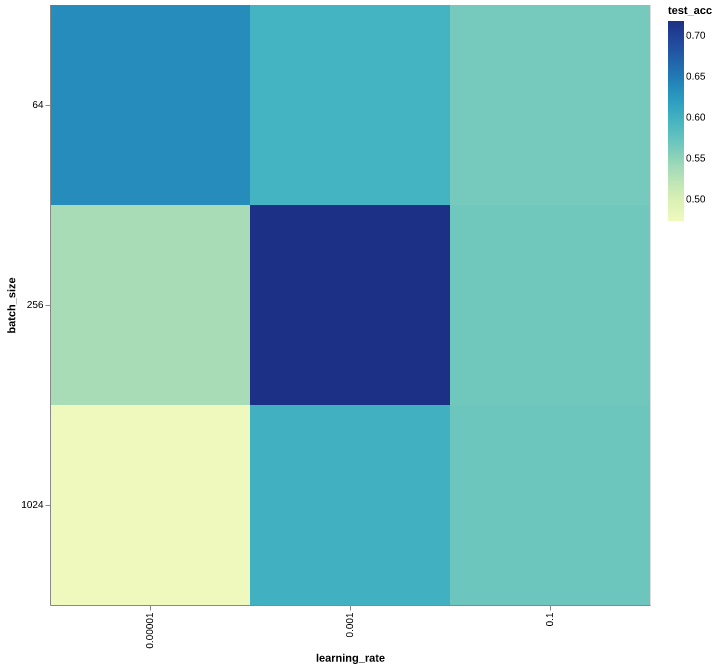
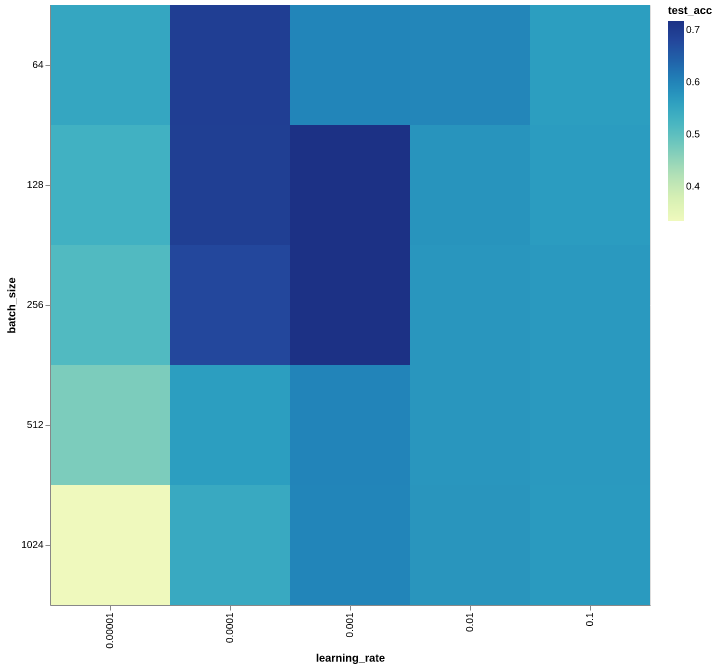
almost finished lab 1

diff --git a/coursework/lab1_process.py b/coursework/lab1_process.py
@@ -38,9 +38,11 @@ def process_tests(dir: str):
         train_acc_data = []
         # Normalise integer steps between 0-1 so easier to graph
         max_len_steps = len(train_acc_steps)
+        best_train_acc = 0
         for step, scalar in enumerate(train_acc_steps):
             train_acc_data.append((step / max_len_steps, scalar.value))
-        data["best_train_acc"].append(max(train_acc_data))
+            best_train_acc = max(best_train_acc, scalar.value)
+        data["best_train_acc"].append(best_train_acc)
         data["test_acc_steps"].append(train_acc_data)
 
         # Process Summary Dataframe
@@ -93,20 +95,36 @@ def plot_batchsize_steps(df: pd.DataFrame):
         height=400
     ).save("batchsize_training_steps.png")
 
-def plot_epoch(df: pd.DataFrame):
-    data = df[df['batch_size'] == 256]
-    alt.Chart(data).mark_line().encode(
+def plot_epoch():
+    run_dir1 = "../lab1_output/sweep-24-01-23-22-53-01"
+    df1 = process_tests(run_dir1)
+    df1 = df1[df1['batch_size'] == 256]
+    run_dir2 = "../lab1_output/long-epoch-24-01-24-20-32-44"
+    df2 = process_tests(run_dir2)
+    data = pd.concat([df1, df2], axis=0)
+    base = alt.Chart(data)
+    test = base.encode(
         x='epochs:N',
         y=alt.Y('test_acc').scale(zero=False),
         color='learning_rate:N'
-    ).properties(
+    ).mark_line()
+    train = base.encode(
+        x='epochs:N',
+        y=alt.Y('best_train_acc').scale(zero=False),
+        color='learning_rate:N'
+    ).mark_line(
+        strokeDash=[8, 8]
+    )
+
+    (test + train).properties(
         width=800,
         height=400
     ).save("epoch_test_acc.png")
 
-def plot_learning_rate_batch(df: pd.DataFrame):
-    data = df[df['epochs'] == 20]
-    alt.Chart(data).mark_rect().encode(
+def plot_learning_rate_batch():
+    run_dir = "../lab1_output/batch-learn-sweep-24-01-24-20-42-07"
+    df = process_tests(run_dir)
+    alt.Chart(df).mark_rect().encode(
         x='learning_rate:O',
         y='batch_size:O',
         color='test_acc'
@@ -117,8 +135,5 @@ def plot_learning_rate_batch(df: pd.DataFrame):
 
 
 if __name__ == '__main__':
-    run_dir = "../lab1_output/24-01-23-22-53-01"
-    df = process_tests(run_dir)
-    plot_batchsize_steps(df)
-    plot_epoch(df)
-    plot_learning_rate_batch(df)
+    # plot_learning_rate_batch()
+    plot_epoch()

diff --git a/coursework/lab1.py b/coursework/lab1.py
@@ -90,7 +90,8 @@ def sweep(timestamp: str):
 
 def long_epoch(timestamp: str):
     config = {
-        "epochs": [80, 120, 160, 200],
+        # "epochs": [80, 120, 160, 200],
+        "epochs": [400, 600, 800],
         "batch-size": [256],
         "learning-rate": [0.00001, 0.001, 0.1]
     }
@@ -131,10 +132,10 @@ if __name__ == "__main__":
     # sweep(timestamp)
 
     # Long epoch config
-    # long_epoch(timestamp)
+    long_epoch(timestamp)
 
     # Conduct a sweep over batch size vs. Learning rate
     # sweep_batch_size_learn_rate(timestamp)
 
     # Run custom jsc-m net
-    custom_nn(timestamp)
+    # custom_nn(timestamp)

diff --git a/coursework/practical1_ddl20.md b/coursework/practical1_ddl20.md
@@ -35,9 +35,20 @@ large, then the model will start to overfit on the data. This will reduce the
 model's ability to fit new data (generalisability) and negatively affect its
 test accuracy.
 
+The graph below shows the effect of epoch number on the training and test
+accuracy. All configurations had a constant batch size of 256. The dotted lines
+show the training accuracy and the solid lines show test accuracy.
+
 ![Image](./epoch_test_acc.png)
 
-COMMENT ABOUT LEARNING CURVE
+The high learning rates don't converge in terms of training accuracy and stay
+relatively constant when compared to the curve with learning rate 0.00001.
+However for the curve with learning rate 0.00001, we can clearly see the effects
+of low max epoch as the model underfits the data when compared to if it was
+given more time to train on the dataset. One effect we don't observe is the test
+accuracy inverting while the test accuracy is still high. This may happen when
+the epoch is too high and the model overfits the training dataset and cannot
+generalise as well to the test dataset.
 
 
 ### 3. What is happening with a large learning and what is happening with a small learning rate and why? What is the relationship between learning rates and batch sizes?
@@ -54,13 +65,21 @@ training batch will not make the parameter update overshoot the minima. On the
 contrary, a larger batch size means less noisy updates so the model may be able
 to tolerate larger learning rates to converge quicker.
 
+The graph below shows the effect of varying the learning rate and batch size vs.
+the test accuracy of the model after training for 10 epochs.
+
 ![Image](./learning_rate_vs_batch.png)
+
+We can validate that larger batch sizes will perform better and with larger
+learning rates and vice versa.
 
 ### 4. Implement a network that has in total around 10x more parameters than the toy network.
 
 Implemented JSC-Medium network in [__init__.py](../machop/chop/models/physical/__init__.py)
 
 ### 5. Test your implementation and evaluate its performance.
+
+
 
 ## Lab 2
 ### 1. Explain the functionality of `report_graph_analysis_pass` and its printed jargons such as `placeholder`, `get_attr` ... You might find the doc of [torch.fx](https://pytorch.org/docs/stable/fx.html) useful.
